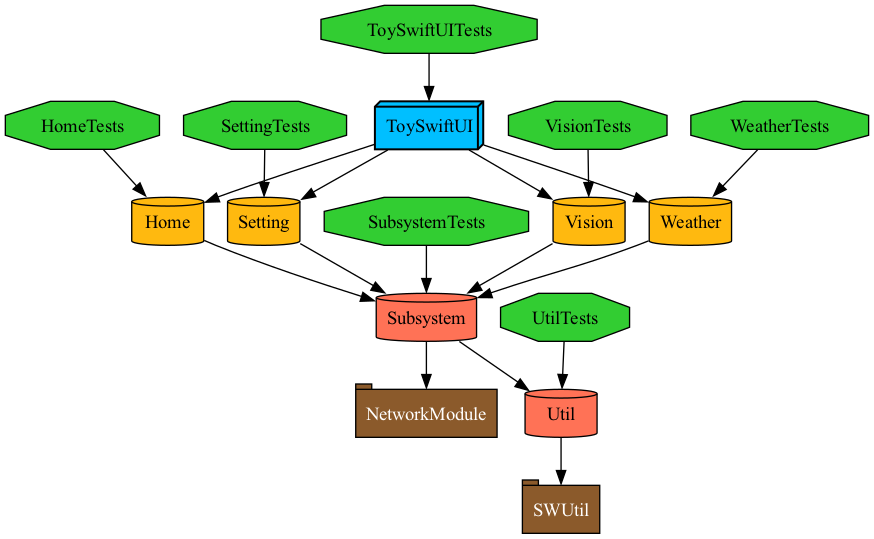
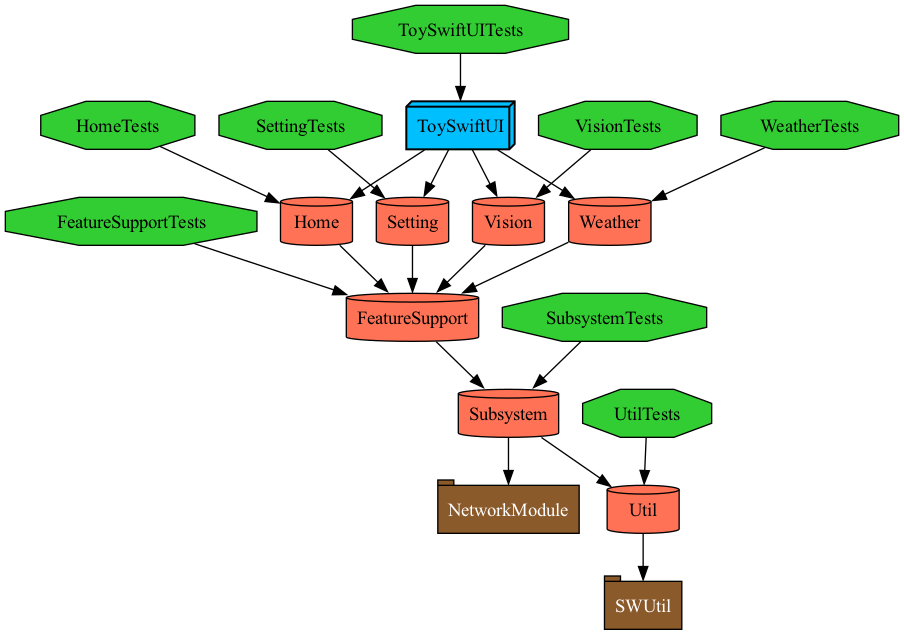
Add SwiftUI

Changed region(s): [[0.0, 0.0, 1.0, 1.0]]

diff --git a/Modules/Features/Home/Sources/TopView.swift b/Modules/Features/Home/Sources/TopView.swift
@@ -1,10 +1,54 @@
 import SwiftUI
 
 public struct TopView: View {
+    struct MainModel: Identifiable {
+        var id = UUID()
+        let title: String
+        let image: String
+        let color: Color
+    }
+    private static var randomColor: Color {
+        Color(red: .random(in: 0..<1), green: .random(in: 0..<1), blue: .random(in: 0..<1))
+    }
+    private let items: [MainModel] = [
+        MainModel(title: "Grid", image: "swift", color: randomColor),
+        MainModel(title: "List1", image: "list.number", color: randomColor),
+        MainModel(title: "List2", image: "list.number", color: randomColor),
+        MainModel(title: "Foreach", image: "figure.run.square.stack", color: randomColor)
+    ]
+    @State private var searchText = ""
+    private var gridItems: [GridItem] {
+        [GridItem(.flexible()), GridItem(.flexible())]
+    }
+    private var filterdMessage: [MainModel] {
+        guard !searchText.isEmpty else { return items }
+        return items.filter {
+            $0.title.localizedCaseInsensitiveContains(searchText)
+        }
+    }
+
     public init() { }
     public var body: some View {
-        Text("Home View")
+        NavigationView {
+            ScrollView {
+                LazyVGrid(columns: gridItems) {
+                    ForEach(filterdMessage) { item in
+                        VStack {
+                            Image(systemName: item.image)
+                            Text(item.title)
+                        }
+                        .frame(width: 160, height: 160)
+                        .background(item.color)
+                        .cornerRadius(20)
+                        .padding()
+                    }
+                }
+                .searchable(text: $searchText)
+            }
+            .navigationTitle("👍 SwiftUI ToyProject")
+        }
     }
+
 }
 
 struct TopView_Previews: PreviewProvider {

diff --git a/Modules/Features/Home/Project.swift b/Modules/Features/Home/Project.swift
@@ -13,11 +13,11 @@ let project = Project(name: name,
                       targets: [
                         Project.target(
                             name: name,
-                            product: .framework,
+                            product: .staticFramework,
                             sources: "Sources/**",
                             resources: [],
                             dependencies: [
-                                .project(target: "Subsystem", path: .relativeToRoot("Modules/Subsystem")),
+                                .project(target: "FeatureSupport", path: .relativeToRoot("Modules/FeatureSupport")),
                             ],
                             scripts: [.swiftLint]
                         ),

diff --git a/Modules/Features/Setting/Project.swift b/Modules/Features/Setting/Project.swift
@@ -13,11 +13,11 @@ let project = Project(name: name,
                       targets: [
                         Project.target(
                             name: name,
-                            product: .framework,
+                            product: .staticFramework,
                             sources: "Sources/**",
                             resources: [],
                             dependencies: [
-                                .project(target: "Subsystem", path: .relativeToRoot("Modules/Subsystem")),
+                                .project(target: "FeatureSupport", path: .relativeToRoot("Modules/FeatureSupport")),
                             ],
                             scripts: [.swiftLint]
                         ),

diff --git a/Modules/Features/Vision/Project.swift b/Modules/Features/Vision/Project.swift
@@ -13,11 +13,11 @@ let project = Project(name: name,
                       targets: [
                         Project.target(
                             name: name,
-                            product: .framework,
+                            product: .staticFramework,
                             sources: "Sources/**",
                             resources: [],
                             dependencies: [
-                                .project(target: "Subsystem", path: .relativeToRoot("Modules/Subsystem")),
+                                .project(target: "FeatureSupport", path: .relativeToRoot("Modules/FeatureSupport")),
                             ],
                             scripts: [.swiftLint]
                         ),

diff --git a/Modules/Features/Weather/Project.swift b/Modules/Features/Weather/Project.swift
@@ -13,11 +13,11 @@ let project = Project(name: name,
                       targets: [
                         Project.target(
                             name: name,
-                            product: .framework,
+                            product: .staticFramework,
                             sources: "Sources/**",
                             resources: [],
                             dependencies: [
-                                .project(target: "Subsystem", path: .relativeToRoot("Modules/Subsystem")),
+                                .project(target: "FeatureSupport", path: .relativeToRoot("Modules/FeatureSupport")),
                             ],
                             scripts: [.swiftLint]
                         ),
